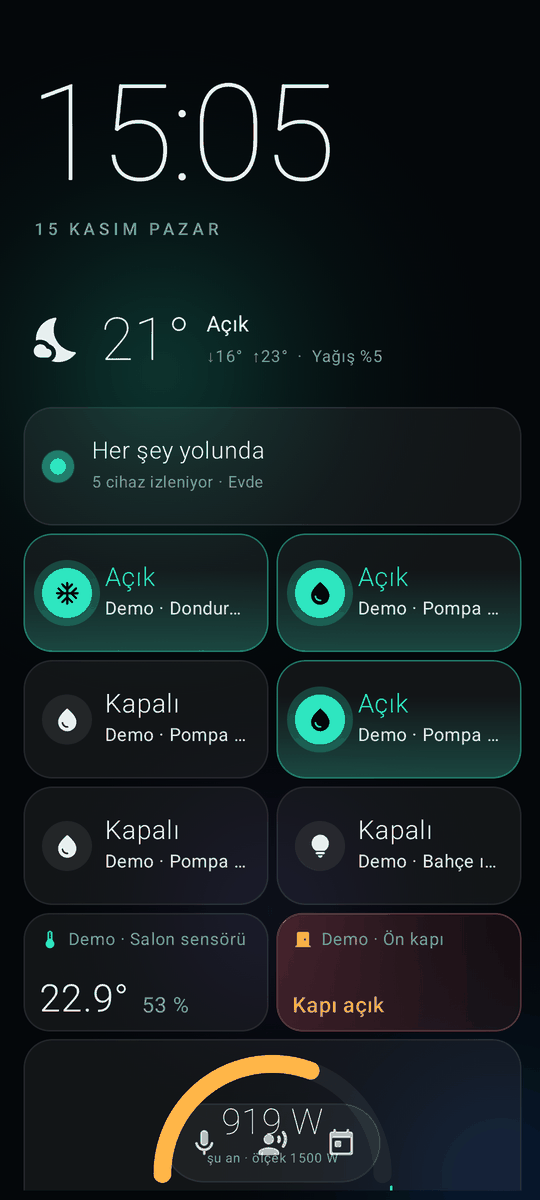
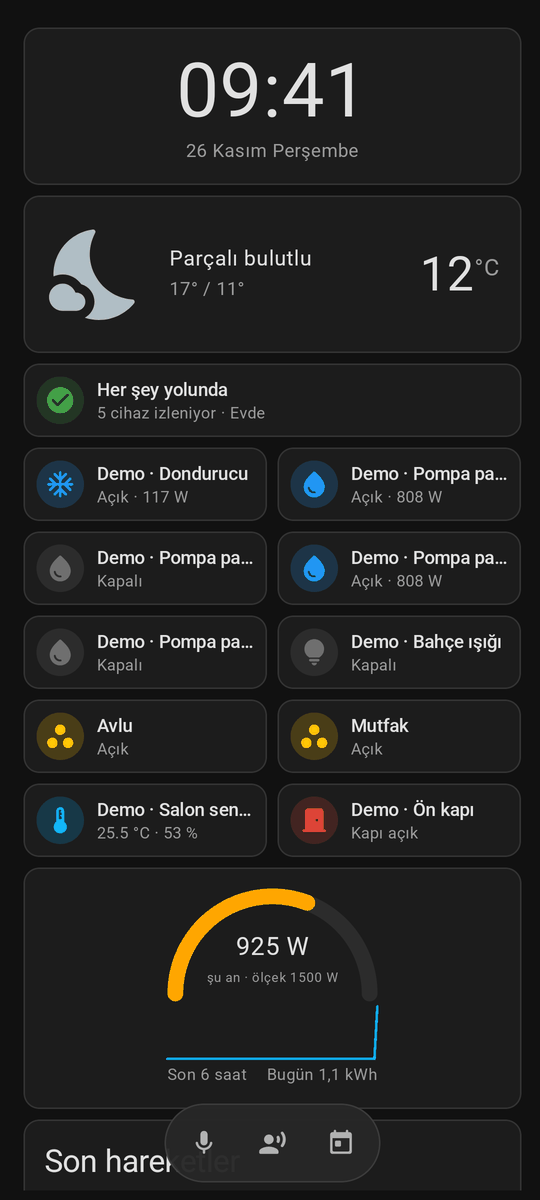
2.56.1: area cards in the new card style; README screenshots renewed (areas, standby, chat, AI help, home energy, rule editor, two-pane tablet)

diff --git a/app/src/main/java/com/macerce/switchguard/ui/AreaUi.kt b/app/src/main/java/com/macerce/switchguard/ui/AreaUi.kt
@@ -71,6 +71,7 @@ import androidx.compose.ui.Alignment
 import androidx.compose.ui.Modifier
 import androidx.compose.ui.graphics.Brush
 import androidx.compose.ui.graphics.SolidColor
+import androidx.compose.ui.graphics.compositeOver
 import androidx.compose.ui.graphics.vector.ImageVector
 import androidx.compose.ui.platform.LocalContext
 import androidx.compose.ui.res.stringResource
@@ -145,14 +146,24 @@ fun AreaTile(
 ) {
     val dark = LocalDarkTheme.current
     val shape = RoundedCornerShape(20.dp)
-    val active = summary.anyOn && editBar == null
-    val background: Brush = if (active) Brand.active(dark) else SolidColor(tileColor())
-    val fg = if (active) Brand.onActive else MaterialTheme.colorScheme.onSurface
-    val muted = if (active) Brand.onActive.copy(alpha = 0.85f) else MaterialTheme.colorScheme.onSurfaceVariant
+    // Cihaz kartlarıyla aynı dil: açık alan düz kalır, simgesi amber dolar, kenarında ince amber çizgi.
+    val lit = summary.anyOn && editBar == null
+    val active = false
+    val accent = com.macerce.switchguard.core.DeviceKind.SWITCH.onColor()
+    val background: Brush =
+        if (lit) SolidColor(accent.copy(alpha = if (dark) 0.10f else 0.08f).compositeOver(tileColor())) else SolidColor(tileColor())
+    val fg = MaterialTheme.colorScheme.onSurface
+    val muted = MaterialTheme.colorScheme.onSurfaceVariant
     Column(
         modifier.fillMaxWidth().tvFocusRing(shape).clip(shape)
             .background(background, shape)
-            .then(if (summary.water > 0) Modifier.border(1.5.dp, Brand.alarm, shape) else Modifier),
+            .then(
+                when {
+                    summary.water > 0 -> Modifier.border(1.5.dp, Brand.alarm, shape)
+                    lit -> Modifier.border(1.5.dp, accent.copy(alpha = 0.6f), shape)
+                    else -> Modifier
+                }
+            ),
     ) {
         Box {
             Box(Modifier.matchParentSize().clickable(onClick = onOpen))
@@ -163,8 +174,8 @@ fun AreaTile(
                 Row(verticalAlignment = Alignment.Top) {
                     IconBadge(
                         area.iconKind.vector(),
-                        tint = if (active) Brand.onActive else MaterialTheme.colorScheme.onSurfaceVariant,
-                        background = if (active) Color.White.copy(alpha = 0.2f) else raisedOnTile(),
+                        tint = if (lit) Color(0xFF1C1C1C) else MaterialTheme.colorScheme.onSurfaceVariant,
+                        background = if (lit) accent else raisedOnTile(),
                         size = 38,
                     )
                     Spacer(Modifier.weight(1f))

diff --git a/CHANGELOG.md b/CHANGELOG.md
@@ -6,6 +6,11 @@ Newest first. Versions are **major.minor.patch**: patch = fixes, minor = new fea
 
 ---
 
+## 2.56.1 — 2026-11-26
+**Improved**
+- Area cards on the home screen use the same style as device cards: when something in the area is on, the card stays calm with an amber icon and a thin amber edge.
+- README screenshots renewed (home screen with areas, standby, chat, AI help, home energy, rule editor, two-pane tablet).
+
 ## 2.56.0 — 2026-11-26
 **New**
 - **Home energy** (Devices → ⋮ → Home energy): the whole home in one page — power now, day/month/year total and cost, bar chart, previous period, and each device's share. A Shelly EM / Pro 3EM is used as the main meter: plugs are shown as its parts (nothing counted twice) and the rest appears as "not measured".

diff --git a/README.tr.md b/README.tr.md
@@ -8,7 +8,11 @@ SwitchGuard, size ait **eWeLink / SONOFF** ve **Tuya / Smart Life** hesaplarınd
   <img src="docs/screenshots/readme/tr/01-devices.png" width="200" alt="Cihazlar">
   <img src="docs/screenshots/readme/tr/02-standby.png" width="200" alt="Bekleme ekranı">
   <img src="docs/screenshots/readme/tr/03-chat.png" width="200" alt="Sohbet">
+</p>
+<p>
   <img src="docs/screenshots/readme/tr/04-ai-help.png" width="200" alt="Yapay zekâ yardımı">
+  <img src="docs/screenshots/readme/tr/07-energy.png" width="200" alt="Ev enerjisi">
+  <img src="docs/screenshots/readme/tr/08-rule.png" width="200" alt="Kural düzenleyici">
 </p>
 <p>
   <img src="docs/screenshots/readme/tr/05-tablet.png" width="480" alt="Tablet">

diff --git a/README.de.md b/README.de.md
@@ -8,7 +8,11 @@ SwitchGuard überwacht die smarten Steckdosen und Schalter in deinen eigenen **e
   <img src="docs/screenshots/readme/en/01-devices.png" width="200" alt="Devices">
   <img src="docs/screenshots/readme/en/02-standby.png" width="200" alt="Standby screen">
   <img src="docs/screenshots/readme/en/03-chat.png" width="200" alt="Chat">
+</p>
+<p>
   <img src="docs/screenshots/readme/en/04-ai-help.png" width="200" alt="AI help">
+  <img src="docs/screenshots/readme/en/07-energy.png" width="200" alt="Home energy">
+  <img src="docs/screenshots/readme/en/08-rule.png" width="200" alt="Rule editor">
 </p>
 <p>
   <img src="docs/screenshots/readme/en/05-tablet.png" width="480" alt="Tablet">

diff --git a/README.es.md b/README.es.md
@@ -8,7 +8,11 @@ SwitchGuard vigila los enchufes e interruptores inteligentes de tus propias cuen
   <img src="docs/screenshots/readme/en/01-devices.png" width="200" alt="Devices">
   <img src="docs/screenshots/readme/en/02-standby.png" width="200" alt="Standby screen">
   <img src="docs/screenshots/readme/en/03-chat.png" width="200" alt="Chat">
+</p>
+<p>
   <img src="docs/screenshots/readme/en/04-ai-help.png" width="200" alt="AI help">
+  <img src="docs/screenshots/readme/en/07-energy.png" width="200" alt="Home energy">
+  <img src="docs/screenshots/readme/en/08-rule.png" width="200" alt="Rule editor">
 </p>
 <p>
   <img src="docs/screenshots/readme/en/05-tablet.png" width="480" alt="Tablet">

diff --git a/README.fr.md b/README.fr.md
@@ -8,7 +8,11 @@ SwitchGuard surveille les prises et interrupteurs connectés de vos propres comp
   <img src="docs/screenshots/readme/en/01-devices.png" width="200" alt="Devices">
   <img src="docs/screenshots/readme/en/02-standby.png" width="200" alt="Standby screen">
   <img src="docs/screenshots/readme/en/03-chat.png" width="200" alt="Chat">
+</p>
+<p>
   <img src="docs/screenshots/readme/en/04-ai-help.png" width="200" alt="AI help">
+  <img src="docs/screenshots/readme/en/07-energy.png" width="200" alt="Home energy">
+  <img src="docs/screenshots/readme/en/08-rule.png" width="200" alt="Rule editor">
 </p>
 <p>
   <img src="docs/screenshots/readme/en/05-tablet.png" width="480" alt="Tablet">

diff --git a/README.hi.md b/README.hi.md
@@ -8,7 +8,11 @@ SwitchGuard आपके अपने **eWeLink / SONOFF** और **Tuya / Smart
   <img src="docs/screenshots/readme/en/01-devices.png" width="200" alt="Devices">
   <img src="docs/screenshots/readme/en/02-standby.png" width="200" alt="Standby screen">
   <img src="docs/screenshots/readme/en/03-chat.png" width="200" alt="Chat">
+</p>
+<p>
   <img src="docs/screenshots/readme/en/04-ai-help.png" width="200" alt="AI help">
+  <img src="docs/screenshots/readme/en/07-energy.png" width="200" alt="Home energy">
+  <img src="docs/screenshots/readme/en/08-rule.png" width="200" alt="Rule editor">
 </p>
 <p>
   <img src="docs/screenshots/readme/en/05-tablet.png" width="480" alt="Tablet">

diff --git a/README.id.md b/README.id.md
@@ -8,7 +8,11 @@ SwitchGuard memantau colokan dan sakelar pintar di akun **eWeLink / SONOFF** dan
   <img src="docs/screenshots/readme/en/01-devices.png" width="200" alt="Devices">
   <img src="docs/screenshots/readme/en/02-standby.png" width="200" alt="Standby screen">
   <img src="docs/screenshots/readme/en/03-chat.png" width="200" alt="Chat">
+</p>
+<p>
   <img src="docs/screenshots/readme/en/04-ai-help.png" width="200" alt="AI help">
+  <img src="docs/screenshots/readme/en/07-energy.png" width="200" alt="Home energy">
+  <img src="docs/screenshots/readme/en/08-rule.png" width="200" alt="Rule editor">
 </p>
 <p>
   <img src="docs/screenshots/readme/en/05-tablet.png" width="480" alt="Tablet">

diff --git a/README.it.md b/README.it.md
@@ -8,7 +8,11 @@ SwitchGuard controlla le prese e gli interruttori smart dei tuoi account **eWeLi
   <img src="docs/screenshots/readme/en/01-devices.png" width="200" alt="Devices">
   <img src="docs/screenshots/readme/en/02-standby.png" width="200" alt="Standby screen">
   <img src="docs/screenshots/readme/en/03-chat.png" width="200" alt="Chat">
+</p>
+<p>
   <img src="docs/screenshots/readme/en/04-ai-help.png" width="200" alt="AI help">
+  <img src="docs/screenshots/readme/en/07-energy.png" width="200" alt="Home energy">
+  <img src="docs/screenshots/readme/en/08-rule.png" width="200" alt="Rule editor">
 </p>
 <p>
   <img src="docs/screenshots/readme/en/05-tablet.png" width="480" alt="Tablet">

diff --git a/README.ja.md b/README.ja.md
@@ -8,7 +8,11 @@ SwitchGuard は、あなた自身の **eWeLink / SONOFF** と **Tuya / Smart Lif
   <img src="docs/screenshots/readme/en/01-devices.png" width="200" alt="Devices">
   <img src="docs/screenshots/readme/en/02-standby.png" width="200" alt="Standby screen">
   <img src="docs/screenshots/readme/en/03-chat.png" width="200" alt="Chat">
+</p>
+<p>
   <img src="docs/screenshots/readme/en/04-ai-help.png" width="200" alt="AI help">
+  <img src="docs/screenshots/readme/en/07-energy.png" width="200" alt="Home energy">
+  <img src="docs/screenshots/readme/en/08-rule.png" width="200" alt="Rule editor">
 </p>
 <p>
   <img src="docs/screenshots/readme/en/05-tablet.png" width="480" alt="Tablet">
